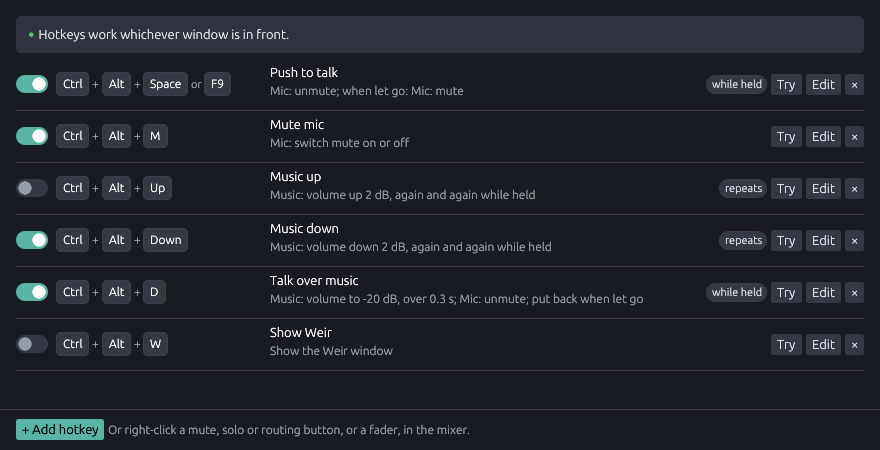
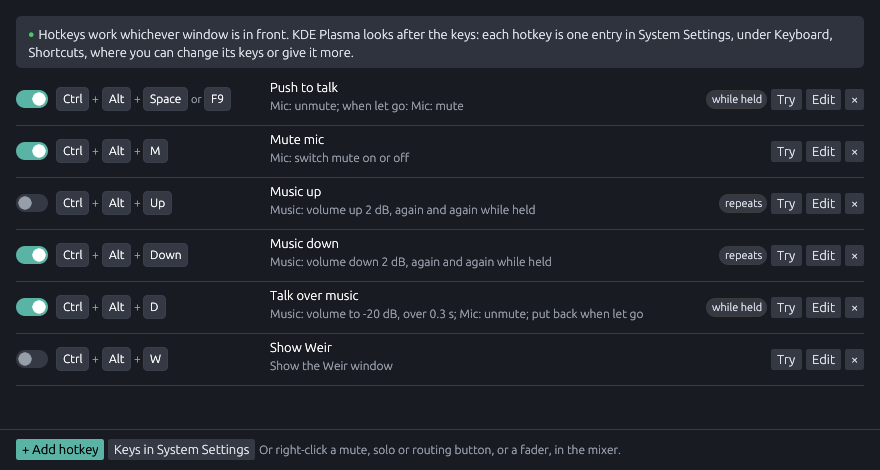
Document one desktop entry per hotkey
The user guide says each hotkey is one entry in the desktop's
shortcut settings, where more keys are added, what removing and
switching off do there, and has new screenshots taken with Plasma's
way of keys. API.md documents open_shortcut_settings, KeysStatus's
configurable and the new form of assigned; CLI.md weirctl hotkey
settings; ARCHITECTURE.md why the list is always bound whole.

Claude-Session: https://claude.ai/code/session_01PWaMWDrXpfpALWtEnsyueZ

diff --git a/docs/API.md b/docs/API.md
@@ -33,7 +33,7 @@ Python and Node.js are in [`examples/`](../examples/).
   * [Equalizer presets and the analyzer](#equalizer-presets-and-the-analyzer): `list_eq_presets`, `apply_eq_preset`, `save_eq_preset`, `delete_eq_preset`, `watch_spectrum`
   * [Scenes and setups](#scenes-and-setups): `save_scene`, `load_scene`, `list_scenes`, `delete_scene` and the same for setups
   * [Undo](#undo): `undo`, `redo`, `history`
-  * [Hotkeys](#hotkeys): `list_hotkeys`, `set_hotkey`, `remove_hotkey`, `run_hotkey`, `press_hotkey`, `release_hotkey`
+  * [Hotkeys](#hotkeys): `list_hotkeys`, `set_hotkey`, `remove_hotkey`, `run_hotkey`, `press_hotkey`, `release_hotkey`, `open_shortcut_settings`
   * [Settings and the window](#settings-and-the-window): `set_settings`, `show_window`
 * [Notifications](#notifications)
 * [Types](#types)
@@ -1266,8 +1266,8 @@ Add a hotkey, or replace one. The parameters are the [Hotkey](#hotkey):
 |---|---|---|
 | `id` | number, *optional* | The hotkey to replace, whole. Left out, or 0, adds a new one. |
 | `name` | string | Unique, ignoring case, up to 60 characters. |
-| `keys` | list of strings, *optional* | Such as `["Ctrl+Alt+M"]`, or several, `["F9", "Ctrl+Alt+T"]`, any of which presses the hotkey: up to 8. See [Keys](#keys). One may be given as a string, `"F9"`. Left out or empty, the hotkey is pressed only by name. |
-| `enabled` | boolean, *optional* | `false` switches its keys off; it can still be pressed by name. `true` when left out. |
+| `keys` | list of strings, *optional* | Such as `["Ctrl+Alt+M"]`, or several, `["F9", "Ctrl+Alt+T"]`, any of which presses the hotkey: up to 8. See [Keys](#keys). One may be given as a string, `"F9"`. Left out or empty, the hotkey is pressed only by name. Where the desktop looks after the keys, only the first is suggested to it; more are added in its settings (see [KeysStatus](#keysstatus)). |
+| `enabled` | boolean, *optional* | `false` switches its keys off; it can still be pressed by name. `true` when left out. Where the desktop looks after the keys, it keeps them for a hotkey switched off, once it has had them. |
 | `steps` | list of [HotkeyStep](#hotkeystep) | What a press does, up to 32. |
 | `each_press` | string, *optional* | `all`: every step at each press (the default). `next`: the next step only, back to the first after the last. |
 | `on_release` | string, *optional* | What letting go does: `nothing` (the default), `restore` (put back what the press changed) or `steps` (do `release_steps`). |
@@ -1362,6 +1362,28 @@ mixer.call("release_hotkey", hotkey="Mute mic")
 
 ```js
 await mixer.call("run_hotkey", { hotkey: "Mute mic" });
+```
+
+#### `open_shortcut_settings`
+
+Open the desktop's shortcut settings at Weir's hotkeys, where people change
+their keys and give them more. Takes no parameters. Returns `null`, or an
+error unless [KeysStatus](#keysstatus) says `configurable`.
+
+<!-- not tested: needs a desktop that can open its settings -->
+```sh
+weirctl raw open_shortcut_settings
+```
+
+<!-- not tested: needs a desktop that can open its settings -->
+```python
+if mixer.call("list_hotkeys")["keys"].get("configurable"):
+    mixer.call("open_shortcut_settings")
+```
+
+<!-- not tested: needs a desktop that can open its settings -->
+```js
+await mixer.call("open_shortcut_settings");
 ```
 
 ### Settings and the window
@@ -1937,9 +1959,10 @@ keys, media keys, `Pause`, `Print` and `ScrollLock` can be on their own.
 
 | Field | Type | |
 |---|---|---|
-| `method` | string | `desktop`: the desktop looks after the keys, through the XDG desktop portal's global shortcuts (KDE Plasma, GNOME 48 and newer, Hyprland). People can see and change the keys in the desktop's settings too. `x11`: Weir watches the keys itself, on an X11 desktop. `unavailable`: neither, so hotkeys are pressed only by name, for instance from a shortcut of the desktop's own running `weirctl hotkey run NAME`. `starting`: not known yet, as at login before the desktop is up. |
+| `method` | string | `desktop`: the desktop looks after the keys, through the XDG desktop portal's global shortcuts (KDE Plasma, GNOME 48 and newer, Hyprland). Each hotkey with keys is one entry in the desktop's shortcut settings, suggesting the first of its `keys`, where people change them and add more. `x11`: Weir watches the keys itself, on an X11 desktop. `unavailable`: neither, so hotkeys are pressed only by name, for instance from a shortcut of the desktop's own running `weirctl hotkey run NAME`. `starting`: not known yet, as at login before the desktop is up. |
 | `message` | string | What that means, in a sentence to show people. |
-| `assigned` | object, *optional* | With `desktop`: the keys the desktop gave each hotkey, by id, as the desktop writes them: a list with one entry for each of the hotkey's `keys`, in the same order, and `""` for one the desktop gave no keys. Changed in the desktop's settings, they can differ from the hotkey's `keys`, and one entry can hold several, such as `"F9, Ctrl+Alt+I"`. |
+| `assigned` | object, *optional* | With `desktop`: the keys each hotkey really has, by id, as the desktop writes them, such as `{"1": ["F9", "Ctrl+Alt+I"]}`; an empty list for one it has given none. They can differ from the hotkey's `keys`, since they are changed and added to in the desktop's settings. A hotkey switched off that the desktop never had is left out. |
+| `configurable` | boolean, *optional* | With `desktop`: `true` when [`open_shortcut_settings`](#open_shortcut_settings) can open the desktop's settings at Weir's hotkeys (KDE Plasma 6.5 and newer). |
 
 ### HistoryInfo
 

diff --git a/docs/USER_GUIDE.md b/docs/USER_GUIDE.md
@@ -577,11 +577,17 @@ to change one. Each strip's and bus's **…** menu has them too, under
 
 * **When I press**: press the keys you want, such as Ctrl or Alt with a
   letter. F keys, media keys and Pause can be used on their own. **Esc**
-  stops recording. **+ Other keys** adds more keys that do the same, any
-  of which work, such as a button on a gaming mouse. **Change** records a
-  set again, and **×** takes it away. With no keys at all, a hotkey can
-  still be pressed by name from `weirctl`, a script or a Stream Deck
-  button.
+  stops recording. **Change** records them again, and **×** takes them
+  away. With no keys at all, a hotkey can still be pressed by name from
+  `weirctl`, a script or a Stream Deck button.
+
+  Where your desktop looks after the keys (see
+  [below](#your-desktop-and-the-keys)), more keys for the same hotkey are
+  added in its settings, and once saved, the hotkey lists every key the
+  desktop has for it. **Add or change keys in System Settings** opens
+  them; **Suggest other keys** gives it the keys you press instead of all
+  of those. On an X11 desktop, **+ Other keys** adds more keys here, any of
+  which work, such as a button on a gaming mouse.
 * **Do this**: what it does, and to which strip or bus.
   * **Mute or unmute**, **Solo**, an effect, or **Send to a bus**: switch
     it each time, always on, always off, or on only **while held**, back
@@ -622,12 +628,19 @@ their order.
 ### Your desktop and the keys
 
 On KDE Plasma, GNOME 48 and newer, and Hyprland, your desktop looks after
-the keys. The first time, it asks you to confirm new ones. They are listed
-in its shortcut settings too, where you can change them or add more: on
-Plasma, **System Settings › Keyboard › Shortcuts › Weir**. Plasma shows the
-keys Weir suggested as the *default shortcut*, with a box to switch it off,
-and keys you add there as *custom shortcuts*. Weir's list shows the keys
-the desktop has.
+the keys. Each hotkey is one entry in its shortcut settings, under the
+hotkey's name: on Plasma, **System Settings › Keyboard › Shortcuts ›
+Weir**. Weir suggests the keys you pressed, and the first time, the desktop
+asks you to confirm them. To give a hotkey more keys, or other ones, change
+its entry there, and Weir lists them. On Plasma 6.5 and newer, **Keys in
+System Settings** under the list opens that page. Plasma shows the keys
+Weir suggested as the *default shortcut*, with a box to switch it off, and
+keys you add there as *custom shortcuts*.
+
+Removing a hotkey removes its entry. A switched-off hotkey keeps its entry
+and keys, ready for when you switch it back on, and the desktop keeps
+those keys for it meanwhile, so other programs do not get them either.
+Examples get their entry when you first switch them on.
 
 On an X11 desktop, Weir watches the keys itself, and a key another program
 already uses is reported in the list. Anywhere else, hotkeys work only by

diff --git a/docs/CLI.md b/docs/CLI.md
@@ -314,12 +314,13 @@ the [control protocol](API.md#hotkeys), so a hotkey can do anything
 | `weirctl hotkey run HOTKEY` | Do what tapping its keys does. |
 | `weirctl hotkey press HOTKEY` | Do what pressing its keys does, until `release`. |
 | `weirctl hotkey release HOTKEY` | Do what letting go of its keys does. |
+| `weirctl hotkey settings` | Open the desktop's shortcut settings at Weir's hotkeys (KDE Plasma 6.5 and newer). |
 
 HOTKEY is a hotkey's name or id. `add` and `change` take:
 
 | Option | |
 |---|---|
-| `--keys KEYS` | Such as `Ctrl+Alt+M`: any of Ctrl, Alt, Shift and Super, then one key. Letters, numbers and the like need Ctrl, Alt or Super; F1 to F24, media keys and Pause can be on their own. [The full list](API.md#keys). Give it more than once for several, any of which presses the hotkey; it replaces the keys the hotkey had. |
+| `--keys KEYS` | Such as `Ctrl+Alt+M`: any of Ctrl, Alt, Shift and Super, then one key. Letters, numbers and the like need Ctrl, Alt or Super; F1 to F24, media keys and Pause can be on their own. [The full list](API.md#keys). Give it more than once for several, any of which presses the hotkey; where the desktop looks after the keys, only the first is suggested to it. It replaces the keys the hotkey had. |
 | `--do STEP` | A step: a method and its parameters as JSON, `'set_strip {"id": "Mic", "mute": "toggle"}'`, or a whole [step](API.md#hotkeystep) as JSON, for a fade. Once per step, in order. |
 | `--each-press all\|next` | Every step at each press (the default), or the next one, going round. |
 | `--release nothing\|restore\|steps` | What letting go does: nothing, put back what pressing changed, or the `--release-do` steps. |
@@ -341,9 +342,11 @@ weirctl hotkey remove "Fade out"
 ```
 
 `weirctl hotkeys` starts with how keys reach Weir. On KDE Plasma and other
-Wayland desktops with a shortcut service, the desktop looks after the keys
-and lists them in its own shortcut settings, where they can be changed too;
-`weirctl hotkeys` then shows the keys the desktop gave.
+Wayland desktops with a shortcut service, the desktop looks after the keys:
+each hotkey is one entry in its shortcut settings, suggesting the first of
+its keys, and more keys for it are added there. `weirctl hotkeys` then
+shows every key the desktop has for each hotkey, and `weirctl hotkey
+settings` opens those settings.
 
 ## Settings and the window
 

diff --git a/docs/ARCHITECTURE.md b/docs/ARCHITECTURE.md
@@ -250,11 +250,18 @@ The **keys** (`hotkeys/keys/`) come one of two ways. On Wayland no program
 may watch the keyboard, so Weir asks the desktop through the XDG desktop
 portal's global shortcuts (`portal.rs`, with `ashpd`): it suggests keys,
 the desktop decides and says when they go down and up, and people can
-change them in the desktop's settings. A portal session can bind only
-once, so a change of hotkeys closes it and opens a new one; shortcut ids
-carry a hash of the keys, so changed keys are offered afresh. A hotkey
-with several key combinations binds a shortcut for each, and is pressed
-while any of them is held. The portal files shortcuts under the program's
+change them in the desktop's settings. Each hotkey is one shortcut, which
+takes one suggestion, so only its first keys are suggested; people add
+more to the same entry in the desktop's settings, and the window shows
+what the desktop reports. A portal session can bind only once, so a change
+of hotkeys closes it and opens a new one, binding the whole list even when
+empty: the desktop forgets shortcuts left out, which is how a removed
+hotkey leaves its settings. A new session starts with the shortcuts the
+desktop already has, and a switched-off hotkey stays bound if it is one of
+them, so its keys are not lost, but is not bound for the first time while
+off, so examples added switched off do not make the desktop ask about
+keys. Shortcut ids carry a hash of the suggested keys, so changed keys are
+offered afresh. The portal files shortcuts under the program's
 name and refuses them without one, but works the name out only for
 programs started from the application menu, not for the daemon started at
 login. So the daemon first tells the portal it is `weir` (its `Register`
